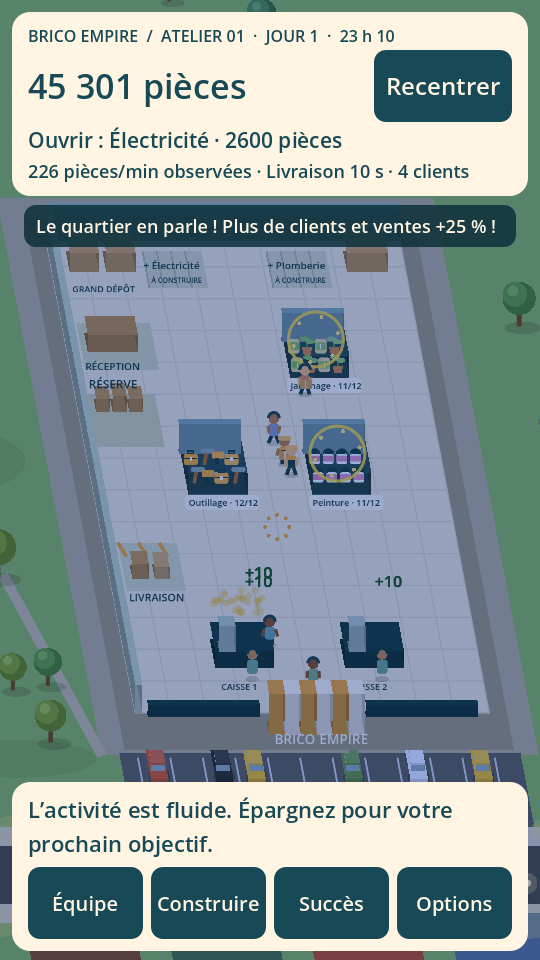
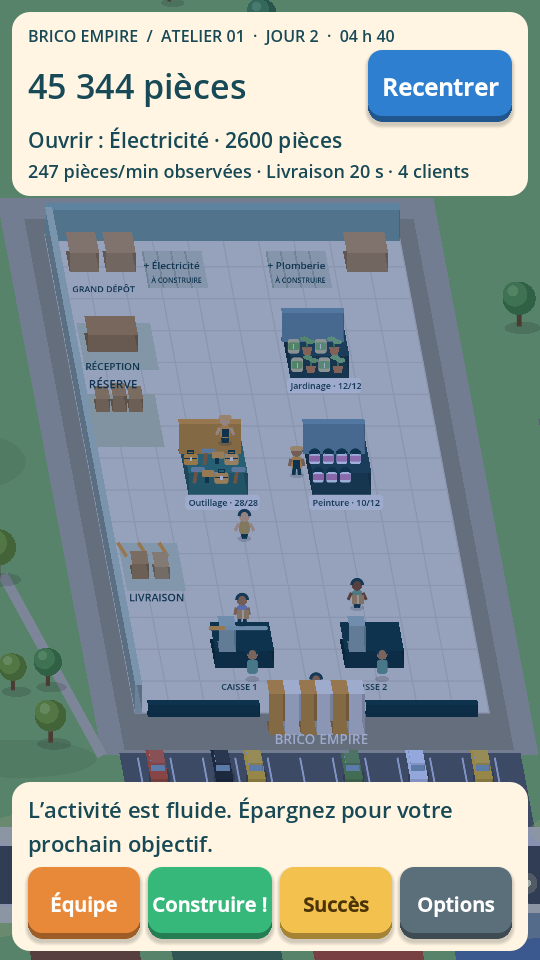
Boutons d'action colorés et en relief
Chaque rôle a sa couleur (achat vert, équipe orange, succès or, options ardoise,
recentrer bleu, fermer corail, réinitialiser rouge), bordure basse qui s'enfonce
au clic, ombre, texte gras, niveau maximal doré. Construire pulse quand un achat
clé est possible.

diff --git a/web/game.html b/web/game.html
@@ -129,7 +129,7 @@ body {
 </script>
 <script src="game.js"></script>
 		<script>
-const GODOT_CONFIG = {"args":[],"canvasResizePolicy":2,"emscriptenPoolSize":8,"ensureCrossOriginIsolationHeaders":true,"executable":"game","experimentalVK":false,"fileSizes":{"game.pck":91812,"game.wasm":37700666},"focusCanvas":true,"gdextensionLibs":[],"godotPoolSize":4};
+const GODOT_CONFIG = {"args":[],"canvasResizePolicy":2,"emscriptenPoolSize":8,"ensureCrossOriginIsolationHeaders":true,"executable":"game","experimentalVK":false,"fileSizes":{"game.pck":94564,"game.wasm":37700666},"focusCanvas":true,"gdextensionLibs":[],"godotPoolSize":4};
 const GODOT_THREADS_ENABLED = false;
 const engine = new Engine(GODOT_CONFIG);
 
